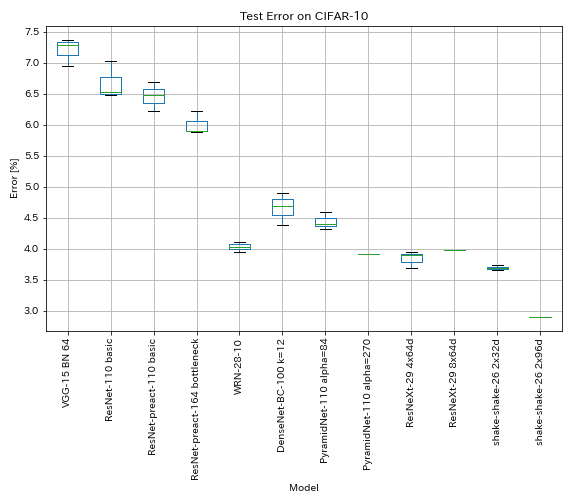
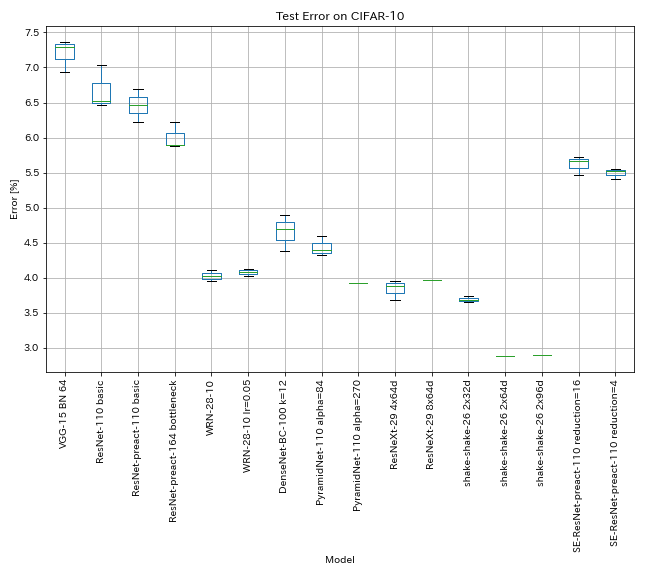
Update results

Changed region(s): [[0.0, 0.0, 1.0, 0.9524], [0.5, 0.9524, 0.5625, 0.9821]]

diff --git a/README.md b/README.md
@@ -196,6 +196,27 @@ $ python -u main.py --arch shake_shake --depth 26 --base_channels 96 --shake_for
 ![](figures/cifar10/shake-shake-26_2x96d.png)
 
 
+### Results
+
+| Model                                   | Test Error (1 run) | # of Epochs | Training Time |
+|:----------------------------------------|:------------------:|------------:|--------------:|
+| WRN-28-10, Cutout 16                    |        3.19        |      200    |     16h23m    |
+| shake-shake-26 2x64d, Cutout 16         |        2.64        |     1800    |     78h55m    |
+
+
+```
+python -u main.py --arch wrn --depth 28 --outdir results/wrn_28_10_cutout16 --epochs 200 --scheduler cosine --base_lr 0.1 --batch_size 64 --seed 17 --use_cutout --cutout_size 16
+```
+
+![](figures/cifar10/WRN-28-10_Cutout_16.png)
+
+```
+python -u main.py --arch shake_shake --depth 26 --base_channels 64 --outdir results/shake_shake_26_2x64d_SSI_cutout16 --epochs 300 --scheduler cosine --base_lr 0.1 --batch_size 64 --seed 17 --use_cutout --cutout_size 16
+```
+
+![](figures/cifar10/shake-shake-26_2x64d_Cutout_16.png)
+
+
 
 ## Results on FashionMNIST
 
